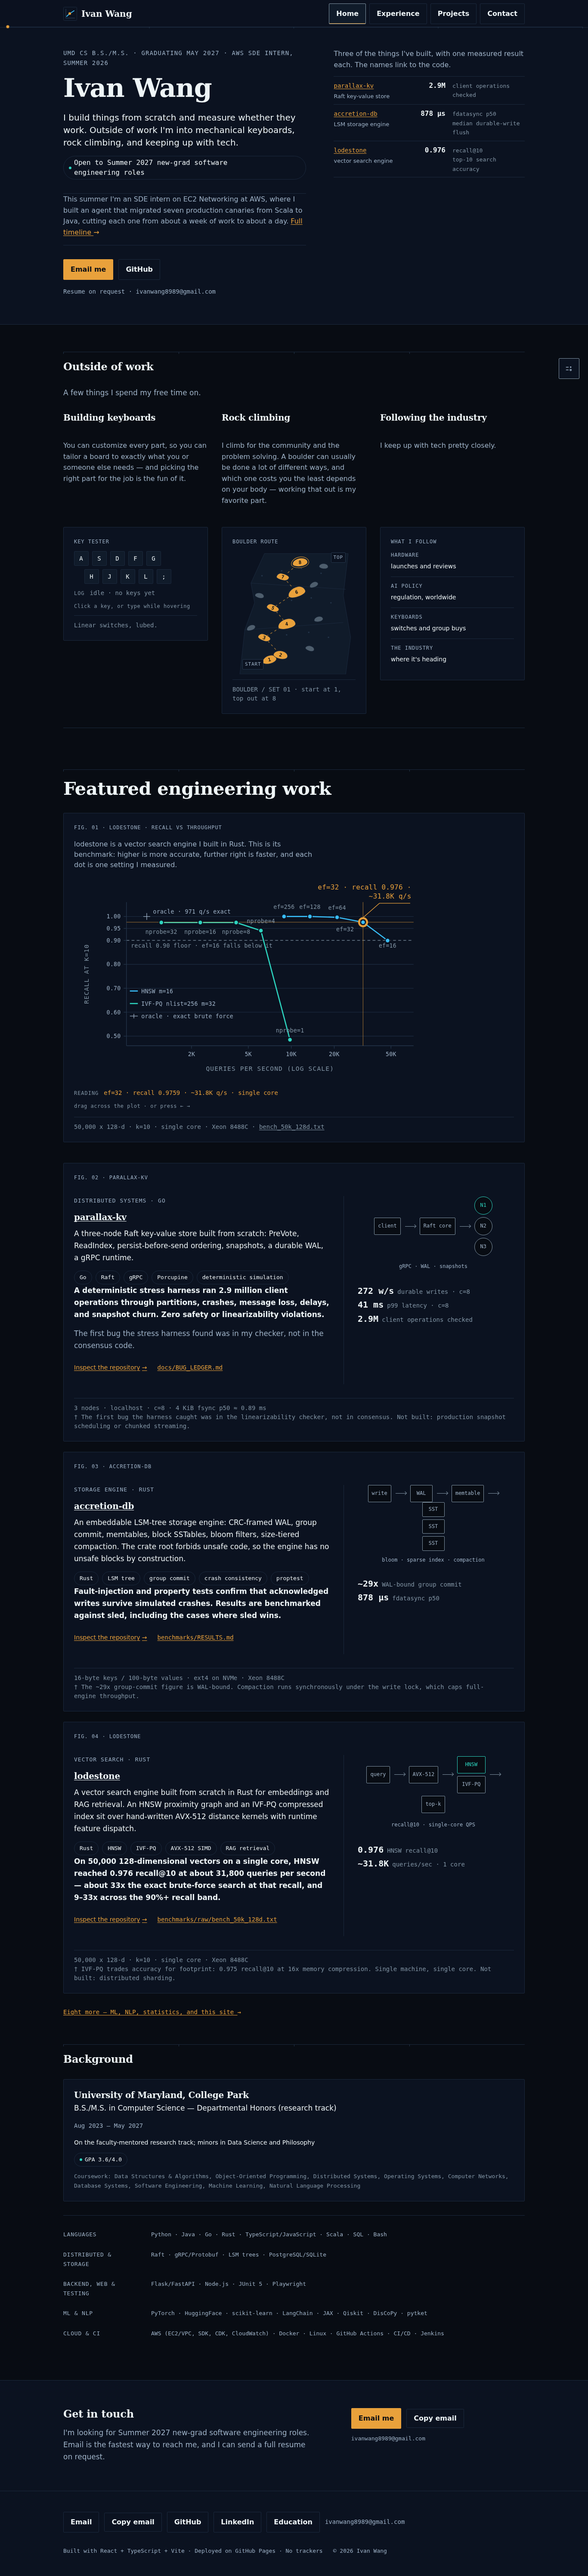
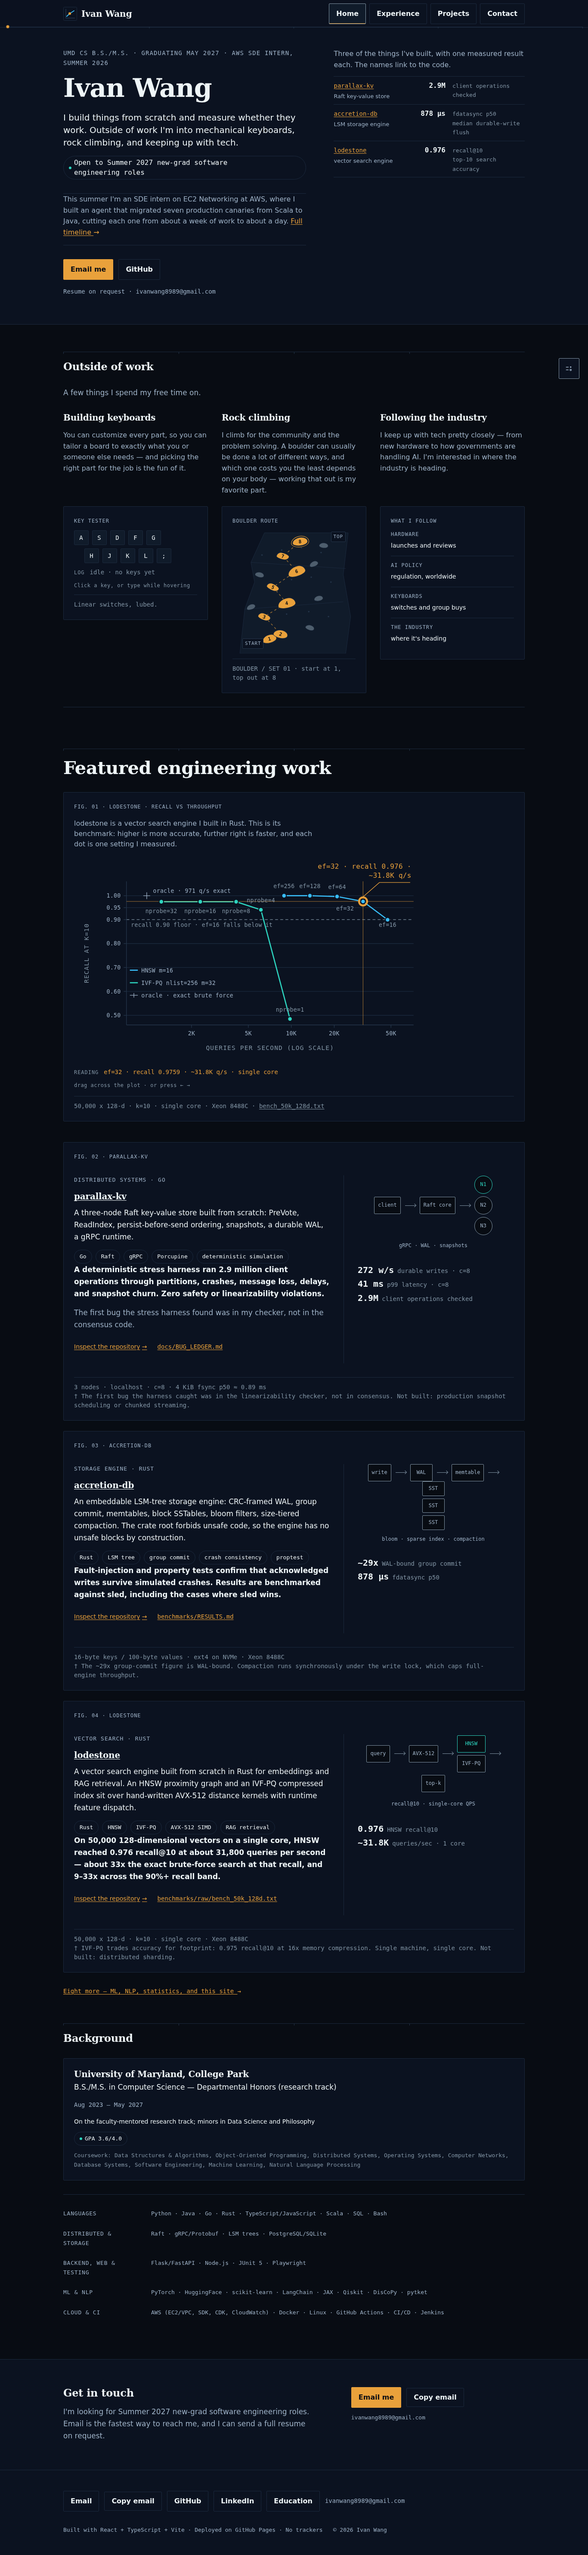
Hobbies: even out the three blurbs, tighten the row rhythm

diff --git a/src/index.css b/src/index.css
@@ -1710,6 +1710,11 @@ img {
 @media (min-width: 1024px) {
   .hobby-grid {
     grid-template-columns: repeat(3, minmax(0, 1fr));
+    /* Column gap stays --space-6; the ROW gap is the space between a heading
+       and its own paragraph, which wants the heading's margin, not a
+       between-columns measure. One value for both put 40px under every h3. */
+    column-gap: var(--space-6);
+    row-gap: var(--space-2);
     /* THREE NAMED ROWS — heading, paragraph, figure — so the row reads as one
        three-panel figure instead of three unrelated columns. Each cell subgrids
        onto them below, which is the only way three independent flex columns can
@@ -1824,6 +1829,14 @@ img {
   }
 
   .hobby-cell > figure {
+    align-self: start;
+  }
+
+  /* The paragraph row is as tall as the LONGEST of the three blurbs, so a short
+     one would float in the middle of its own row and open a void above the
+     figure. Pin every paragraph to the top of the row: the ragged bottom of a
+     text column is normal typography, a floating paragraph is not. */
+  .hobby-cell > .hobby-lead {
     align-self: start;
   }
 }

diff --git a/src/content.ts b/src/content.ts
@@ -127,7 +127,7 @@ export const hobbies = {
     blurb: "Following the industry",
     // One clause, no enumeration: the four rows below name the specifics, and
     // the paragraph used to say all four of them 30px above the plate.
-    lead: "I keep up with tech pretty closely.",
+    lead: "I keep up with tech pretty closely — from new hardware to how governments are handling AI. I'm interested in where the industry is heading.",
     // Short by design: this renders in a third-width column, so each note has
     // to fit on one or two lines.
     feed: [
